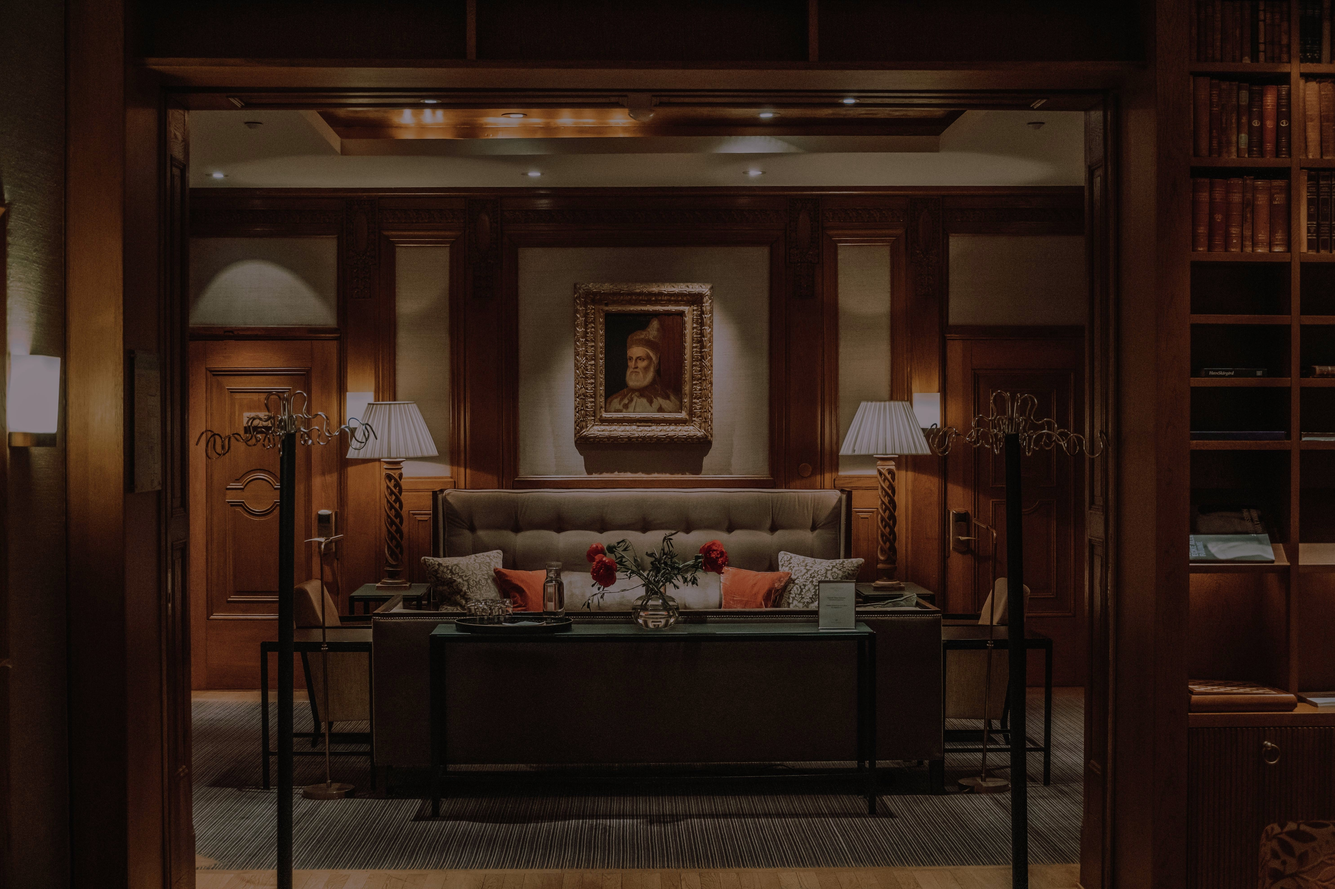
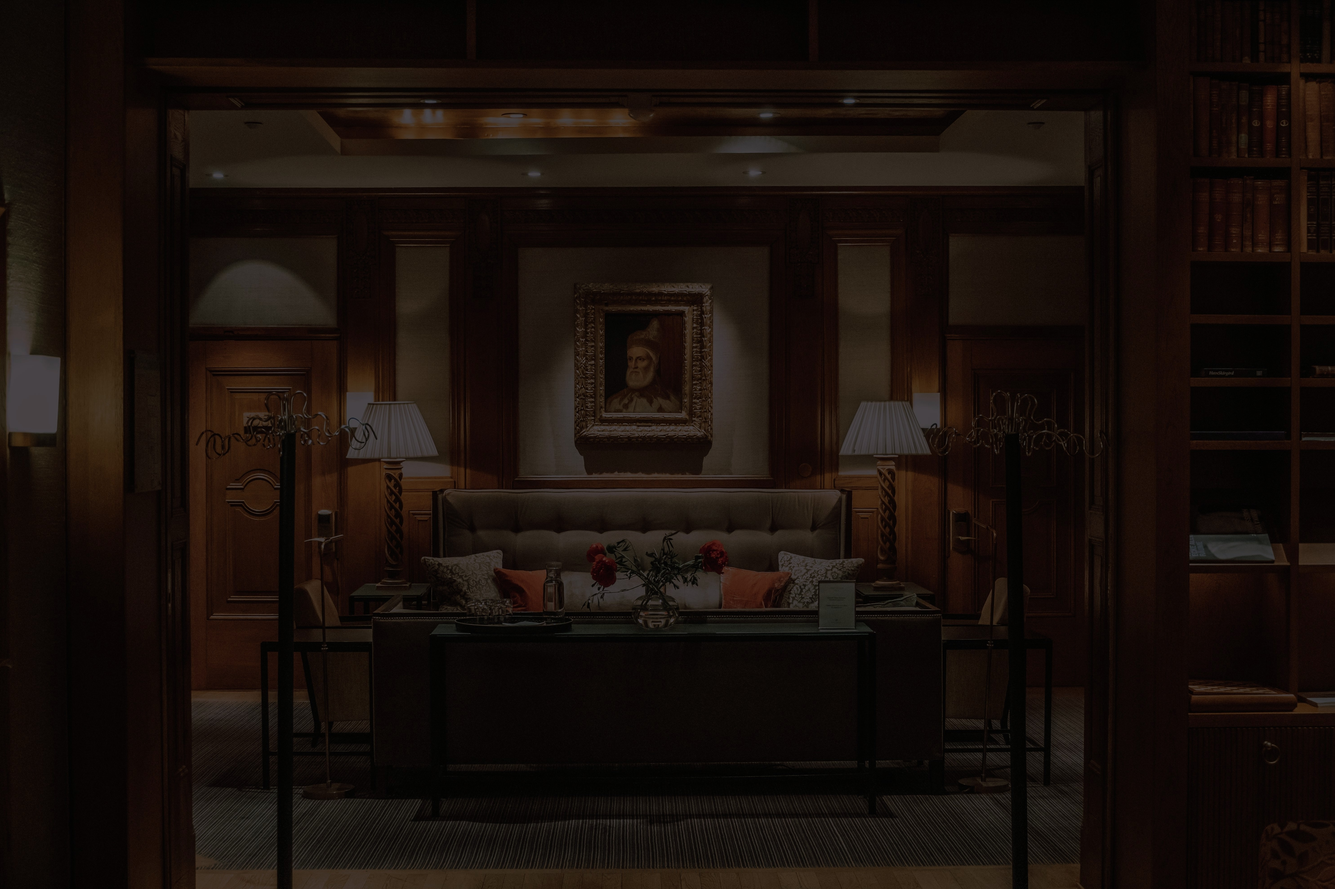
changes

diff --git a/main/src/Pages/RoomDetail.jsx b/main/src/Pages/RoomDetail.jsx
@@ -1,0 +1,104 @@
+import React, { useEffect, useState } from 'react'
+import { useParams } from 'react-router'
+import { assets, facilityIcons, roomCommonData, roomsDummyData } from "../assets/assets";
+
+export default function RoomDetail() {
+    const {id} = useParams()
+    const [room,setRoom]=useState(null)
+    const [mainImage,setMainImage]=useState(null)
+
+    useEffect(() => {
+      const room =  roomsDummyData.find(room => room._id === id)
+      room && setRoom(room)
+      room && setMainImage(room.images[0])
+    }, [id])
+
+  return room && (
+
+       <div>
+        <div  id='bg' className='flex flex-col justify-center items-center px-6 md:px-16 lg:px-24 xl:px-32
+     text-white bg-[url("./src/assets/hotrl.jpg")] bg-no-repeat bg-center  bg-cover h-[70vh]'>
+      <h1 className='text-white'>Room Details</h1>
+      <p>Take advantage of our limited-time offers and special packages to enhance your stay and create unforgettable memories.</p>
+      
+    </div>
+    <div className='flex md:flex-row  flex-col mt-10 items-start md:items-center px-4 gap-2'>
+      <h2 className='text-start text-white '>{room.name} <span className='text-sm'>({room.roomType})</span></h2>
+      <p className='text-xs font-inter py-1.5 px-3 text-white bg-orange-600 rounded-full'>20% Off</p>
+    </div>
+    <div className='flex px-4 mb-5 items-center mt-1 gap-1 text-white '>
+      <img src={assets.locationIcon} alt="" />
+      <span>{room.hotel.address}</span>
+    </div>
+    <div className='flex py-10 flex-col lg:flex-row mt-6 gap-6'>
+      <div className='lg:w-1/2 w-full px-4'>
+      <img src={mainImage} alt=""
+      className='rounded-xl w-full shadow-lg object-cover' />
+    </div>
+    <div className='grid grid-cols-2 gap-4 lg:w-1/2 w-full px-4'>
+      {room.images.length > 1 && room.images.map((image,index)=>(
+        <img onClick={()=>setMainImage(image)}
+        key={index} src={image} alt="" 
+        className={`w-full rounded-xl shadow-lg object-cover cursor-pointer ${mainImage === image && 'outline-2 outline-orange-500'}`}/>
+      ))}
+    </div>
+    </div> 
+    <div className='flex flex-col md:flex-row mb-5  md:justify-between mt-10'> 
+      <div className='px-4'>
+        <h2 className='text-start md:text-4xl text-white'>{room.description}</h2>
+        <div className='flex flex-wrap items-center mt-3 mb-6 gap-4'>
+          {room.amenities.map((item,index)=>(
+            <div key={index} className='flex items-center gap-3 px-3 py-2 rounded-lg bg-white text-black'>
+              <img src={facilityIcons[item]} alt={item} />
+              <p className='text-xs'>{item}</p>
+            </div>
+          ))}
+        </div>
+      </div>
+      <p className='text-2xl font-medium px-4 text-white'>${room.pricePerNight}/Night</p>
+    </div >
+    <div className='px-4'>
+      <form className='flex flex-col  md:items-center md:flex-row justify-between bg-white p-6 rounded-xl mx-auto mt-16 mx-w-6xl'>
+      <div className='flex flex-col gap-5 flex-wrap md:flex-row items-start'>
+
+          <div className='flex flex-col'>
+            <label htmlFor="CheckInDate" className='text-start font-medium'>Check In </label>
+            <input type="date" id="CheckinDate" required className='w-full rounded border border-gray-300 px-3 py-2 mt-1.5 outline-none' placeholder='Check in' />
+          </div>
+
+          <div className='flex flex-col'>
+            <label htmlFor="CheckOutDate" className='text-start font-medium'>Check Out </label>
+            <input type="date" id="CheckinDate" className='w-full rounded border border-gray-300 px-3 py-2 mt-1.5 outline-none' required placeholder='Check in' />
+          </div>
+
+          <div className='flex flex-col'>
+            <label htmlFor="guest" className='text-start font-medium'>Guest </label>
+            <input type="number" id="guest" className='max-w-20 rounded border border-gray-300 px-3 py-2 mt-1.5 outline-none' placeholder='0' required/>
+          </div>
+          
+      </div>
+      
+
+      
+
+      <button type='Submit' className='bg-black hover:bg-black-dull active:scale-95 transition-all text-white rounded-md
+      max-md:w-full max-md:mt-6 md:px-25 py-3 md:py-3 cursor-pointer text-base'>
+        Book Now
+      </button>
+    </form>
+    <div className='mt-25 mb-20 space-y-4'>
+            {roomCommonData.map((spec,index)=>(
+              <div key={index} className='flex items-start gap-2'>
+                <img src={spec.icon} alt="" className='w-6.5'/>
+                <div>
+                  <p className='text-start text-base text-white'>{spec.title}</p>
+                  <p className='text-gray-200 text-start'>{spec.description}</p>
+                </div>
+              </div>
+            ))}
+          </div>
+    </div>
+</div>
+    
+  )
+}

diff --git a/main/src/Pages/Room.jsx b/main/src/Pages/Room.jsx
@@ -7,21 +7,23 @@ export default function Room() {
   return (
     <div>
       <div  id='bg' className='flex flex-col justify-center items-center px-6 md:px-16 lg:px-24 xl:px-32
-     text-white bg-[url("./src/assets/rooms001.jpg")] opacity-55 bg-no-repeat bg-center  bg-cover h-[80vh]'>
-      <h1 className='text-black'>Hotel Rooms</h1>
+     text-white bg-[url("./src/assets/rooms001.jpg")] bg-no-repeat bg-center  bg-cover h-[80vh]'>
+      <h1 className='text-white'>Hotel Rooms</h1>
       <p>Take advantage of our limited-time offers and special packages to enhance your stay and create unforgettable memories.</p>
     </div>
-    <div className='px-10 w-2/3'>
+    <div>
+      <div className='px-10 w-2/3'>
       {roomsDummyData.map((room)=>(
       <div key={room._id} className='flex flex-col md:flex-row items-start py-10 gap-6 border-b border-gray-300 last:pb-30 last:border-0'>
-        <img onClick={()=>navigate(`/rooms/${room._id}`)}
+        <img onClick={()=>{navigate(`/rooms/${room._id}`);scrollTo(0,0)}}
         src={room.images[0]} 
         alt="" title='View Room Details' 
         className='max-h-65 shadow-lg md:w-1/2 rounded-xl object-cover cursor-pointer' />
         <div className='md:w-1/2 flex flex-col gap-2'>
           <p className='text-gray-300 text-start'>{room.hotel.city}</p>
-          <h2 onClick={()=>navigate(`/rooms/${room._id}`)}
-           className='text-white text-start'>{room.hotel.name}</h2>
+          <h2 onClick={()=>{navigate(`/rooms/${room._id}`);scrollTo(0,0)}}
+           className='text-white text-start'>{room.name}</h2>
+          <p className='text-gray-300 text-start'>{room.description}</p>
           <div className='flex items-center'>
           <img src={assets.starIconFilled} alt="" />400 + Reviews
           </div>
@@ -42,6 +44,8 @@ export default function Room() {
       </div>
     ))}
     </div>
+    </div>
+    
     </div>
   )
 }

diff --git a/main/src/assets/assets.js b/main/src/assets/assets.js
@@ -145,6 +145,8 @@ export const roomsDummyData = [
     {
         "_id": "67f7647c197ac559e4089b96",
         "hotel": hotelDummyData,
+        "name": "Skyline Suite",
+        "description": "A spacious suite with room service, mountain views, and pool access.",
         "roomType": "Double Bed",
         "pricePerNight": 399,
         "amenities": ["Room Service", "Mountain View", "Pool Access"],
@@ -157,6 +159,8 @@ export const roomsDummyData = [
     {
         "_id": "67f76452197ac559e4089b8e",
         "hotel": hotelDummyData,
+        "name": "Mountain Deluxe",
+        "description": "A comfortable double room made for relaxing with room service and scenic views.",
         "roomType": "Double Bed",
         "pricePerNight": 299,
         "amenities": ["Room Service", "Mountain View", "Pool Access"],
@@ -169,6 +173,8 @@ export const roomsDummyData = [
     {
         "_id": "67f76406197ac559e4089b82",
         "hotel": hotelDummyData,
+        "name": "Garden Room",
+        "description": "A bright room with complimentary breakfast, WiFi, and convenient room service.",
         "roomType": "Double Bed",
         "pricePerNight": 249,
         "amenities": ["Free WiFi", "Free Breakfast", "Room Service"],
@@ -181,6 +187,8 @@ export const roomsDummyData = [
     {
         "_id": "67f763d8197ac559e4089b7a",
         "hotel": hotelDummyData,
+        "name": "Urban Comfort ",
+        "description": "A practical single room with WiFi, room service, and access to the pool.",
         "roomType": "Single Bed",
         "pricePerNight": 199,
         "amenities": ["Free WiFi", "Room Service", "Pool Access"],

diff --git a/main/src/Component/HotelCard.jsx b/main/src/Component/HotelCard.jsx
@@ -4,13 +4,13 @@ import { assets } from '../assets/assets'
 
 export default function HotelCard({room,index}) {
   return (
-    <Link to={'/room/' + room._id} onClick={()=>scrollTo(0,0)} key={room._id} className='relative max-w-70 rounded-xl w-full 
+    <Link to={'/rooms/' + room._id} onClick={()=>scrollTo(0,0)} key={room._id} className='relative max-w-70 rounded-xl w-full 
     overflow-hidden bg-white text-gray-500/90'>
         <img src={room.images[0]} alt="" />
        {index % 2 == 0 && <p className='px-3 py-1 top-3 left-3 absolute text-xs bg-white text-gray-800 font-medium rounded-full'>Best Seller</p>}
         <div className='p-4 pt-5'>
             <div className='flex items-center justify-between'>
-                <p className='font-playfair font-medium text-xl text-gray-800'>{room.hotel.name}</p>
+                <p className='font-playfair font-medium text-xl text-gray-800'>{room.name}</p>
             <div className='flex items-center gap-1'>
                 <img src={assets.starIconFilled} alt="" />4.5
             </div>

diff --git a/main/src/Component/Hero.jsx b/main/src/Component/Hero.jsx
@@ -4,10 +4,10 @@ import { assets, cities } from "../assets/assets";
 export default function Hero() {
   return (
     <>
-    <div className='flex flex-col justify-center items-center px-6 md:px-16 lg:px-24 xl:px-32
+    <div id='bg' className='flex flex-col justify-center items-center px-6 md:px-16 lg:px-24 xl:px-32
      text-white bg-[url("./src/assets/reee.jpg")] bg-no-repeat bg-center bg-cover h-screen'>
       <h4 className='text-white bg-black w-fit text-start py-1 items-start mt-10 rounded-2xl px-4'>The Ultimate Hotel Experience</h4>
-       <h1>The Hotel In Mountain</h1>
+       <h1 >The Hotel In Mountain</h1>
        <p>Unparalleled luxury and comfort await at the world's <br/> most exclusive hotels and resorts. Start your journey today.</p>
         <form className='bg-white text-gray-500 rounded-lg px-6 py-3 mt-5  flex flex-col md:flex-row max-md:items-start gap-4 max-md:mx-auto'>
 

diff --git a/main/src/Component/Footer.jsx b/main/src/Component/Footer.jsx
@@ -54,8 +54,8 @@ export default function Footer() {
                 </div>
 
                 <div className='max-w-80'>
-                    <p className='text-lg text-gray-100'>STAY UPDATED</p>
-                    <p className='mt-3 text-sm text-white '>
+                    <p className='text-lg text-start text-gray-100'>STAY UPDATED</p>
+                    <p className='mt-3 text-start text-sm text-white '>
                         Subscribe to our newsletter for inspiration and special offers.
                     </p>
                     <div className='flex items-center mt-4'>

diff --git a/main/src/App.jsx b/main/src/App.jsx
@@ -3,6 +3,7 @@ import { Route, Routes, useLocation } from "react-router";
 import Home from './Pages/Home';
 import Room from './Pages/Room';
 import Footer from './Component/Footer';
+import RoomDetail from './Pages/RoomDetail';
 
 export default function App() {
   const isOwnerpath = useLocation().pathname.includes("owner");
@@ -12,6 +13,7 @@ export default function App() {
      <Routes>
       <Route path='/' element={<Home/>}/>
        <Route path='/rooms' element={<Room/>}/>
+       <Route path='/rooms/:id' element={<RoomDetail/>}/>
      </Routes>
      <Footer/>
     </div>

diff --git a/main/src/Component/NewsLetter.jsx b/main/src/Component/NewsLetter.jsx
@@ -4,7 +4,7 @@ export default function NewsLetter() {
   return (
     <div className='px-4 md:px-6 lg:px-24 py-10'>
       <div className='bg-blue-950 rounded-xl py-10'>
-        <h1>Subscribe</h1>
+        <h1 className='text-white'>Subscribe</h1>
         <p className='pb-5 mt-3 text-white '>Join our newsletter and be the first to discover new destinations<br/> exclusive offers, and travel inspiration.</p>
        <div className='flex justify-between px-20'>
          <input type="text" placeholder='Type Here' className='w-[60vw] border border-gray-200 px-2'/>

diff --git a/main/src/Component/Feature.jsx b/main/src/Component/Feature.jsx
@@ -9,7 +9,7 @@ export default function Feature() {
   return (
     <div className='flex flex-col items-center  md:px-10 lg:px-4 py-20'>
         <div className='py-5 '>
-            <h1>Featured Destination</h1>
+            <h1 className='text-white'>Featured Destination</h1>
             <p>Discover our handpicked selection of exceptional properties around the<br/> world  offering unparalleled luxury and unforgettable experiences.</p>
         </div>
       <div className='flex flex-wrap items-center gap-5 justify-center mt-20'>

diff --git a/main/src/Component/Testonomial.jsx b/main/src/Component/Testonomial.jsx
@@ -5,7 +5,7 @@ export default function Testonomial() {
   return (
     <div>
       <div className='py-4'>
-        <h1 className='text-center'>What Our Guest Says</h1>
+        <h1 className='text-center text-white'>What Our Guest Says</h1>
         <p className='px-4 md:px-6 '>Discover why discerning travelers consistently choose QuickStay for their exclusive and luxurious accommodations around the world.</p>
       </div>
        <div className="flex flex-wrap items-center justify-center gap-6 mt-20 mb-10">

diff --git a/main/src/Component/ExclusiveOffer.jsx b/main/src/Component/ExclusiveOffer.jsx
@@ -6,7 +6,7 @@ export default function ExclusiveOffer() {
    <div>
      <div className='lg:flex justify-between px-5'>
       <div className='px-4 py-10'>
-        <h1 className='lg:text-start'>Exclusive Offer</h1>
+        <h1 className='lg:text-start text-white'>Exclusive Offer</h1>
       <p>Take advantage of our limited-time offers and special packages to enhance your stay and create unforgettable memories.</p>
       </div> 
         <button className= 'text-white  '>View All Offer</button>
